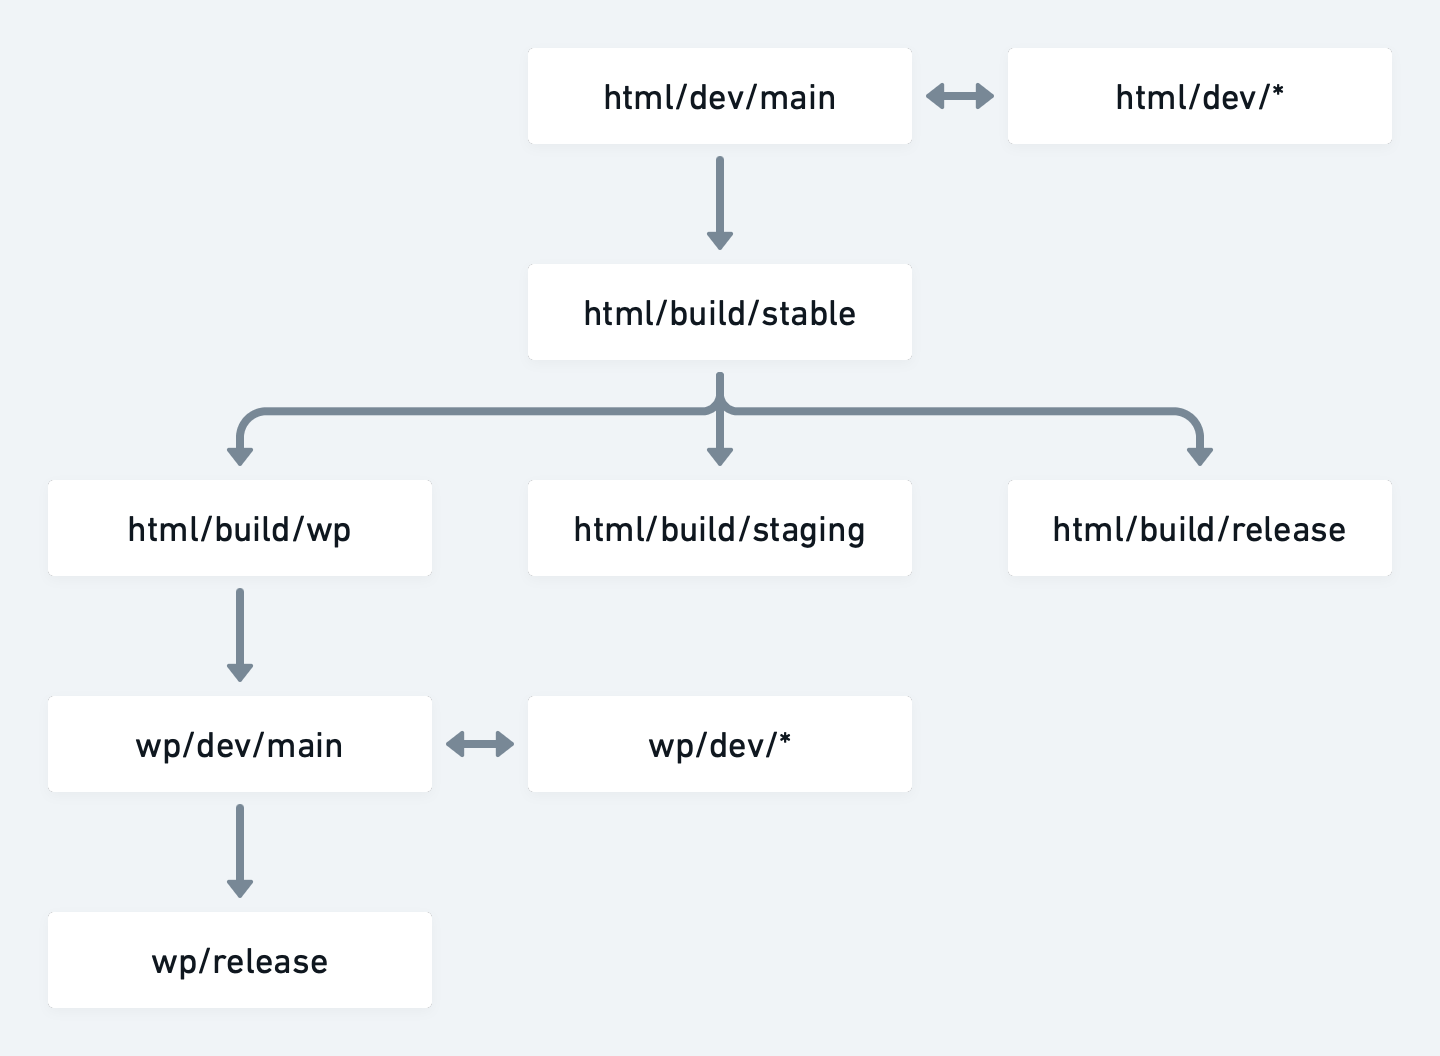
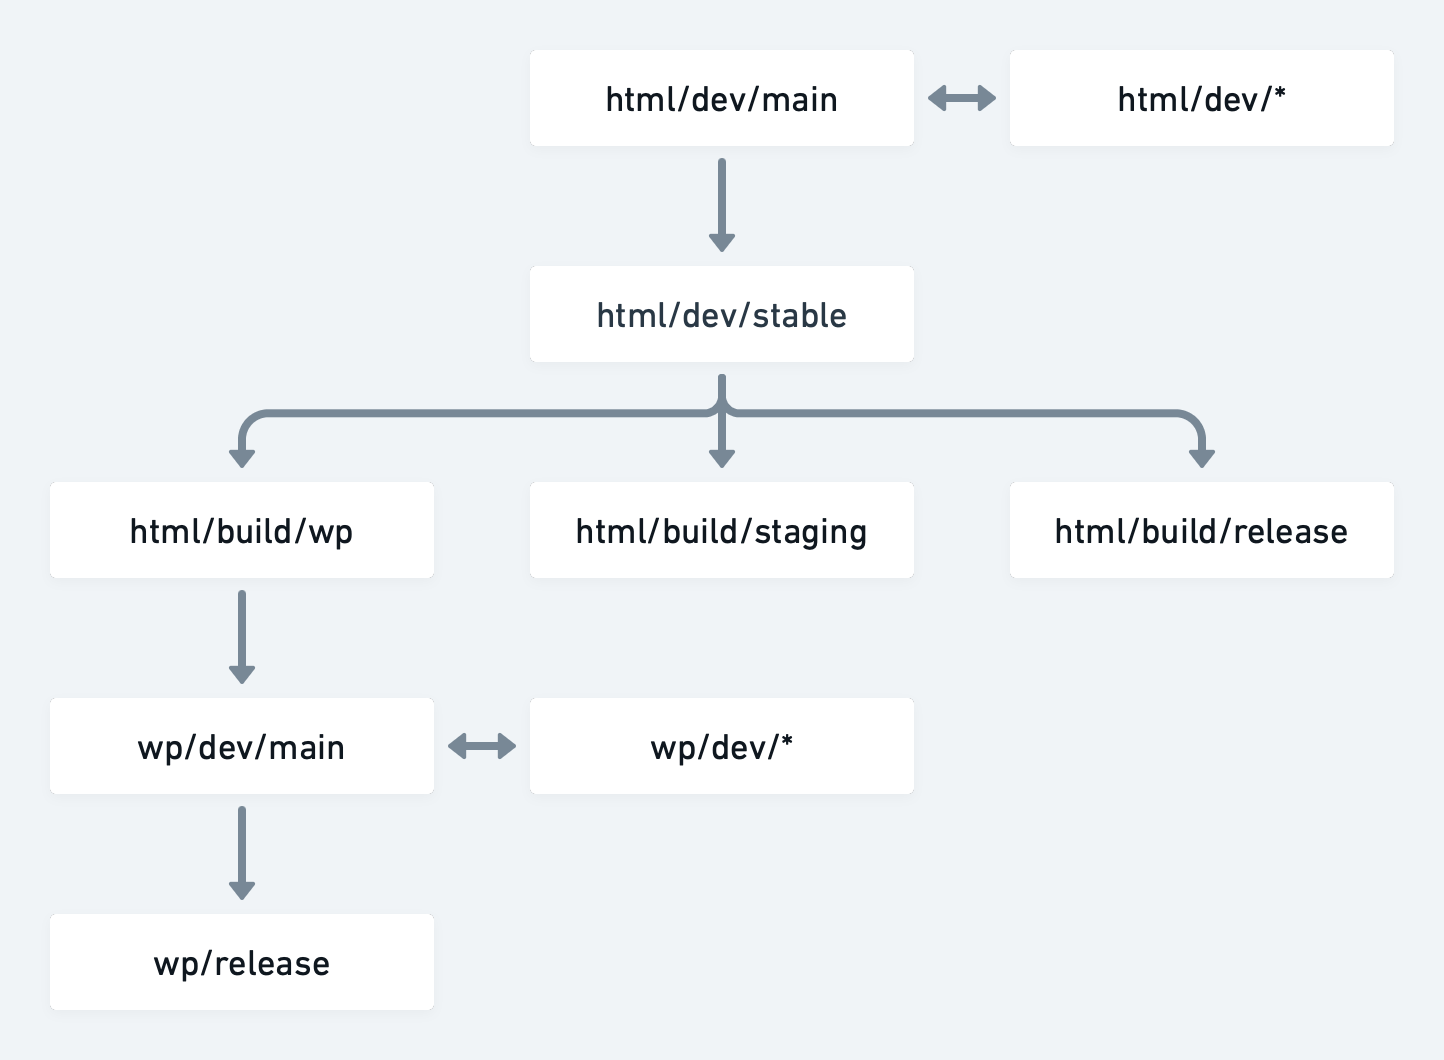
Update branch names

diff --git a/gulp/install.js b/gulp/install.js
@@ -31,9 +31,10 @@ const commit = () => {
 
 const setup = done => {
 	console.log(chalk.inverse("[********]") + " * Generating Branches");
+	git.branch("html/dev/main");
+	git.branch("html/dev/stable");
 	git.branch("html/build/staging");
 	git.branch("html/build/release");
-	git.branch("html/build/stable");
 	git.branch("html/build/wp");
 	git.branch("wp/dev/main");
 	git.checkout('html/dev/main', {args:'-b'});
